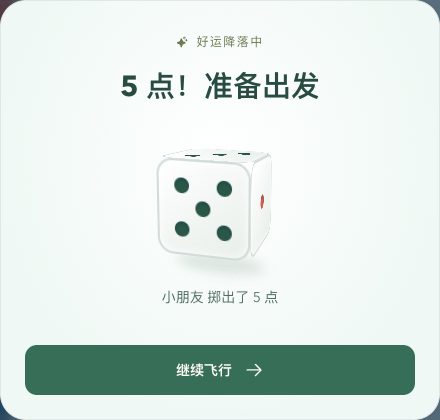
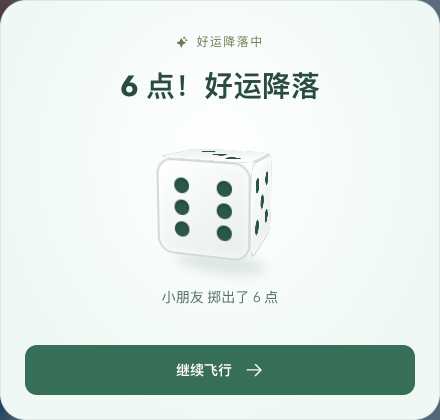
docs: record playtest fixes, current screenshots and voice results (#19)

diff --git a/docs/ARCHITECTURE.md b/docs/ARCHITECTURE.md
@@ -523,8 +523,17 @@ Room 提供 `name` 和 `status`：`waiting → playing ↔ paused → ended`；w
 
 ## 新手指南与落点预览（#18）
 
-首次进入进行中的对局时显示三步引导，完成或跳过后在当前浏览器保存 `fly-tutorial-v1`；顶栏始终提供重看入口。指南不提交游戏操作，打开时阻止点击和空格掷骰；明确语音指令仍由原服务端授权链路处理。
+首次进入进行中的对局时显示三步引导，完成或跳过后在当前浏览器保存 `fly-tutorial-v1`；顶栏始终提供重看入口。指南不提交游戏操作，打开时阻止点击和空格掷骰，停止对话采集与独立播报；首次、未完成时刷新和手动重看都保持安静。完成或跳过后按自动语音偏好连接，手动关闭的偏好保留。
 
 手动选子先产生本地预览，使用 Go 已计算的 `legal_moves`：`from/to`、`launch/jump/fly/finish`、`captured` 与 `blocked`。前端只把最终位置映射到棋盘坐标，不重复计算跳格、撞机或护盾规则。3D 使用同一场景中的可复用落点标记与连接线，2D 降级使用 SVG 标记；连线指向最终位置，不作为逐格路径承诺。
 
 预览绑定 `game_id + version + piece_id`，不修改飞机、库存或版本，也不播放移动音效。点击“确认飞行”才提交已有 move 命令；取消、换选不写服务端。暂停、新局、状态版本变化或其他输入完成操作时清除过期预览，确认前再次检查局和版本，服务端仍负责最终校验与去重。骰子弹窗和未完成动画期间不能预览选子，明确语音/AI 操作沿用原有执行与动画顺序。
+
+
+## 引导静音、幸运骰投掷与结束导航（#19）
+
+幸运骰在 Room 锁内将使用道具和 `RollRandom` 合为同一个命令；点击、语音和 AI 共用两次实际随机点数，生成同一 `rolled` 事件。一个 command_id 重试不会重新扣卡或重掷，一个语音授权不能继续提交第二次投掷。规则引擎的底层用卡操作仍可独立验证，应用层使用幸运骰即执行双骰。
+
+主持人指令补充本次新事件，同时写入服务端系统上下文；每次替换上次临时上下文，避免旧提示累积。只有本轮 `rolled` 才可播报新点数，不能把保留在状态中的历史 dice 说成刚掷出的结果。已观察到“幸运骰”转写成“幸运头”，在明确使用指令中支持该别名，否定与询问优先走只读。
+
+客户端结束命令成功后跳转首页，失败保留棋盘并显示原因。首页继续入口仅对未完结的 playing/paused 游戏展示；正常胜利仍保留庆祝和重新准备入口。

diff --git a/docs/QA-VOICE.md b/docs/QA-VOICE.md
@@ -60,3 +60,18 @@ QA_BASE_URL=http://127.0.0.1:8080 QA_AUDIO_FILE=/tmp/flytogether-voice-fixture/b
 - 不同设备上的断网/切网恢复、后台挂起及长时间监听。
 - 家长与孩子完整对局、噪声/回声/不同说话距离的记录。
 - 更多时延样本与比赛演示备份、交付清单。
+
+
+## 引导与幸运骰回归（#19）
+
+`test:flows:browser` 使用受控应用语音握手和真实 Chrome 麦克风，检查首次/刷新未完成/手动重看引导期间麦克风请求、语音连接和主动播报请求均为零。跳过、完成后连接，手动关闭后重看引导不擅自重新启用。还覆盖结束失败不跳转、成功回首页、刷新保留首页、移除已结束局继续入口，以及点击幸运骰出现两颗点数与 Go 事件一致的骰子。
+
+新增真实平台 lucky 场景：最终公网样本为 3、6 取 6，实际回复与本轮点数一致。合成音频原话“帮我使用幸运骰”，通过实际 AudioWorklet、Go 和灵矽，验证库存扣一次、版本 1 → 3、两个随机结果与可见双骰弹窗一致；后续“不要掷骰子”不写入。转写曾为“幸运头”，该明确用卡别名已兼容，测试保留实际转写，不冒称真人实测。平台曾在仅设置 response 指令时偶发复述旧开场词，现同步服务端系统上下文，每轮替换，并校验当前转写对应回复的点数，不能用后续回复凑通过。
+
+```sh
+QA_BASE_URL=http://127.0.0.1:8080 npm --prefix web run test:flows:browser
+python3 scripts/voice_fixture.py --scenario lucky --output-dir /tmp/flytogether-lucky
+QA_BASE_URL=http://127.0.0.1:8080 QA_AUDIO_FILE=/tmp/flytogether-lucky/browser-input.wav QA_SCENARIO=lucky npm --prefix web run test:voice:realtime
+```
+
+本轮还复跑完整起飞链路（实际随机 1 点、版本 1→2→3→4）及独立灵矽 TTS，返回 107332 字节 PCM，麦克风请求为零。自然随机走棋准备后，真实网页验证撞机回库/音效与抵达撒花通过。
